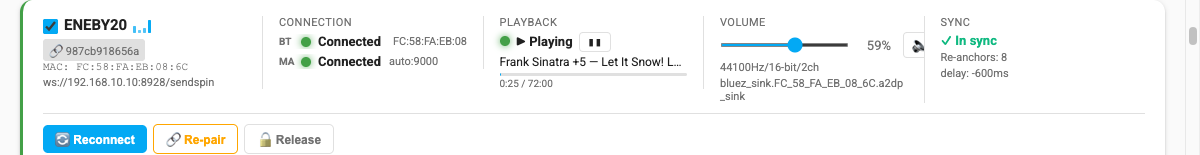
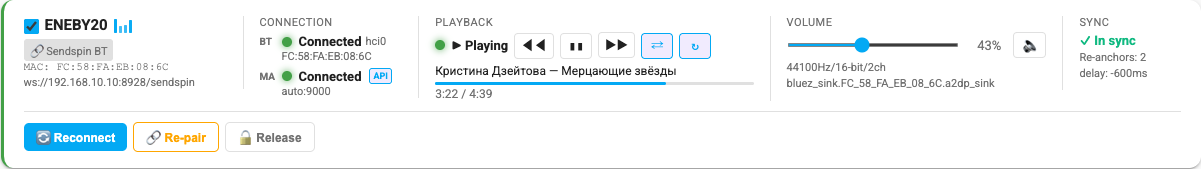
docs: update screenshots and web-ui docs for v2.10.6
- New screenshots: dashboard-full, device-card-playing, device-card-hover, device-card
  (show MA API badge, transport controls prev/next/shuffle/repeat, group sorting)
- web-ui.md: add MA API badge description in Connection column
- web-ui.md: update Playback column with transport controls (prev/next/shuffle/repeat)
- web-ui.md: rewrite Device Sorting section (group-first sort)
- README.md + README.ru.md: add MA API integration to Features list

diff --git a/docs-site/src/content/docs/web-ui.md b/docs-site/src/content/docs/web-ui.md
@@ -10,7 +10,7 @@ The web interface is available on port **8080** (Docker/LXC) or via **HA Ingress
 
 ![Full dashboard showing 6 device cards with group controls and header](/sendspin-bt-bridge/screenshots/screenshot-dashboard-full.png)
 
-The dashboard shows all configured Bluetooth devices as cards. Cards are sorted automatically: playing devices first, then connected-but-idle, then inactive — so the most relevant speakers are always at the top. Within each tier, devices in the same MA sync group stay together.
+The dashboard shows all configured Bluetooth devices as cards. Cards are sorted so that active groups appear first — all members of an MA sync group are always shown together. Within a group, playing devices come before idle ones. Ungrouped (solo) speakers follow after all groups.
 
 ---
 
@@ -92,13 +92,17 @@ The adapter name (`hci0`, `hci1`) is shown next to the dot. Hover to see the ful
 
 The MA server `host:port` is shown (or `auto:9000` for mDNS discovery). Hover to see the full resolved WebSocket URL.
 
+When the bridge is actively receiving now-playing data from the MA REST API, a small **`api`** badge appears next to the MA connection indicator. This means full transport controls (prev/next/shuffle/repeat) and queue metadata are available for this device.
+
 ### Playback Column
 
 - **Status** — `▶ Playing` (green dot), `⏸ Stopped` (amber dot), `● No Sink` (red, device not connected)
-- **Per-device Pause/Play button** — `▮▮` while playing, `▶` while stopped; only visible when a sink is active
+- **Transport controls** — visible when a sink is active:
+  - `◀◀` prev track, `▮▮` / `▶` pause/play, `▶▶` next track — always shown when sink is active
+  - `⇄` shuffle, `↻` repeat — shown when MA API is connected; reflect the actual MA queue state and toggle it on click
 - **Track / artist** — shown below the status; persists on pause (cleared only when MA sends empty values)
   - **Compilation albums**: if multiple slash-separated artists are present (e.g. `Frank Sinatra/Louis Armstrong/Elvis Presley`), the display shows `Frank Sinatra +2` — hover the element for the full text
-- **Progress** — current position / total duration (e.g. `7:05 / 72:00`)
+- **Progress** — current position / total duration (e.g. `3:22 / 4:39`)
 
 ### Volume Column
 
@@ -135,13 +139,14 @@ The MA server `host:port` is shown (or `auto:9000` for mDNS discovery). Hover to
 
 ## Device Sorting
 
-Cards are automatically ordered as follows:
+Cards are ordered to keep groups together:
 
-1. **Playing** devices — at the top
-2. **Connected but idle** — stopped devices that are still connected
-3. **Inactive** — disconnected or released devices
+1. **Groups with active members first** — a group where at least one device is playing appears before an all-idle group
+2. **Group members stay adjacent** — all devices sharing the same MA sync group are always shown together, regardless of individual play state
+3. **Within a group** — playing devices come before idle/disconnected ones
+4. **Solo (ungrouped) devices** — appear after all groups, ordered by individual play state
 
-Within each tier, devices are grouped by their MA sync group (sorted by group name). Ungrouped devices appear at the end of their tier.
+Within groups, the group badge (`🔗 GroupName`) is shown on each member card. Solo players do not show a group badge.
 
 ---
 

diff --git a/README.ru.md b/README.ru.md
@@ -14,6 +14,7 @@ Bluetooth-мост для [Music Assistant](https://www.music-assistant.io/) —
 - **PipeWire и PulseAudio**: Автоматическое определение аудиосистемы хоста
 - **Отображение аудио формата**: Кодек, частота дискретизации и битность отображаются для каждого устройства (например, `flac 48000Hz/24-bit/2ch`)
 - **Групповое управление**: Регулировка громкости и отключение звука на нескольких плеерах из веб-интерфейса
+- **Интеграция с MA API**: Расширенные данные воспроизведения (трек, исполнитель, альбом, позиция в очереди) и транспортные кнопки (предыдущий/следующий/shuffle/repeat) из MA REST API — работает как для участников syncgroup, так и для соло-плееров
 - **Управление BT-адаптерами**: Автоматическое определение адаптеров с возможностью ручного выбора; привязка каждой колонки к конкретному адаптеру
 - **Компенсация задержки**: Поле `static_delay_ms` компенсирует буферную задержку A2DP
 - **Эндпоинт диагностики**: `/api/diagnostics` возвращает структурированную информацию о состоянии — адаптеры, синки, D-Bus, статус каждого устройства

diff --git a/README.md b/README.md
@@ -14,6 +14,7 @@ A Bluetooth bridge for [Music Assistant](https://www.music-assistant.io/) — co
 - **PipeWire & PulseAudio**: Auto-detects the host audio system
 - **Audio format display**: Codec, sample rate, and bit depth shown per device (e.g. `flac 48000Hz/24-bit/2ch`)
 - **Group controls**: Volume and mute controls across multiple players from the web UI
+- **MA API integration**: Rich now-playing data (track, artist, album, queue position) and transport controls (prev/next/shuffle/repeat) sourced from the MA REST API — works for both syncgroup members and solo players
 - **BT adapter management**: Auto-detect adapters with manual override; pin each speaker to a specific adapter
 - **Per-device latency compensation**: `static_delay_ms` field to compensate A2DP buffer latency
 - **Diagnostics endpoint**: `/api/diagnostics` returns structured health info — adapters, sinks, D-Bus status, per-device state
